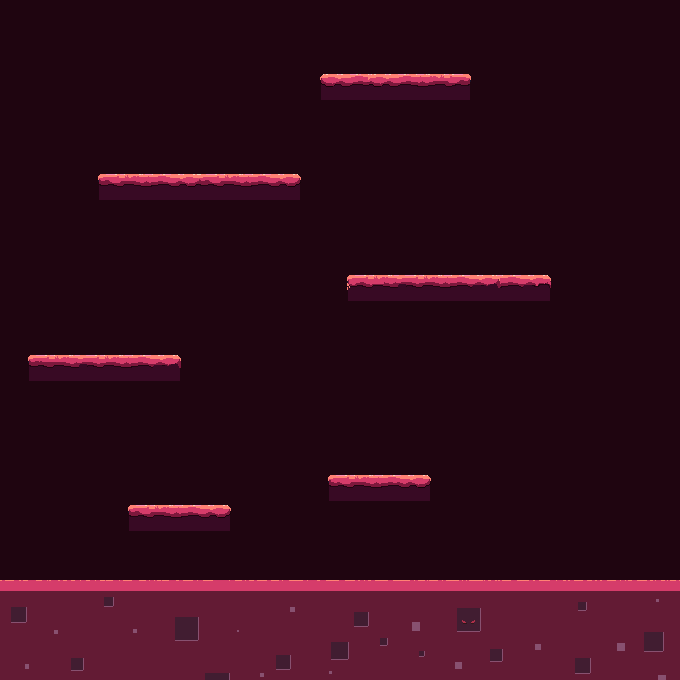
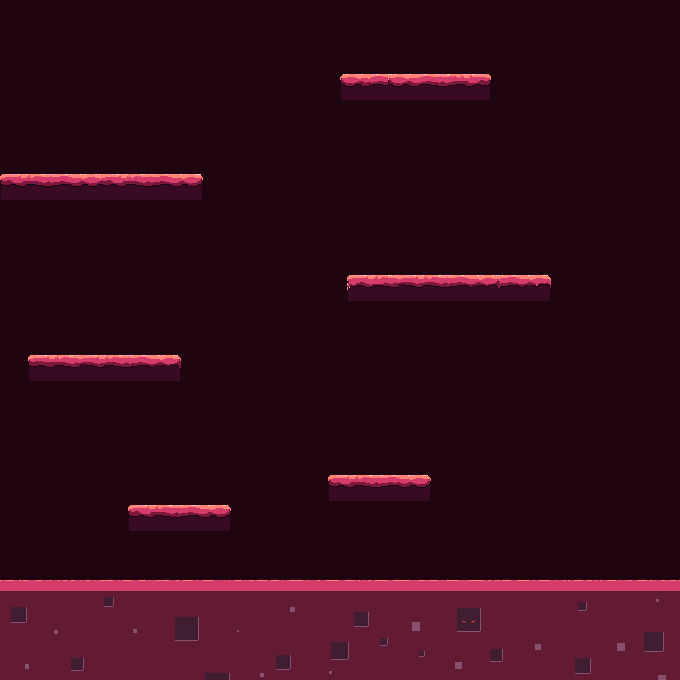
final update maps

Changed region(s): [[0.4632, 0.0926, 0.7412, 0.1544], [0.2471, 0.2471, 0.4632, 0.3088], [0.0, 0.2471, 0.1853, 0.3088]]

diff --git a/game_organization_ai.py b/game_organization_ai.py
@@ -35,12 +35,6 @@ class Game_organization_ai():
         fps_text = self.font.render("Fps : "+str(fps), True, (255,255,255))
         window.blit(fps_text, (550, 715))
 
-        for x in self.button_list:
-            pygame.draw.rect(window, (255,255,255), x) 
-        
-        for x in range(len(self.b_names)):
-            window.blit(self.b_names[x], self.b_names_cord[x] )
-
 
     def maps(self):
         # maps defining
